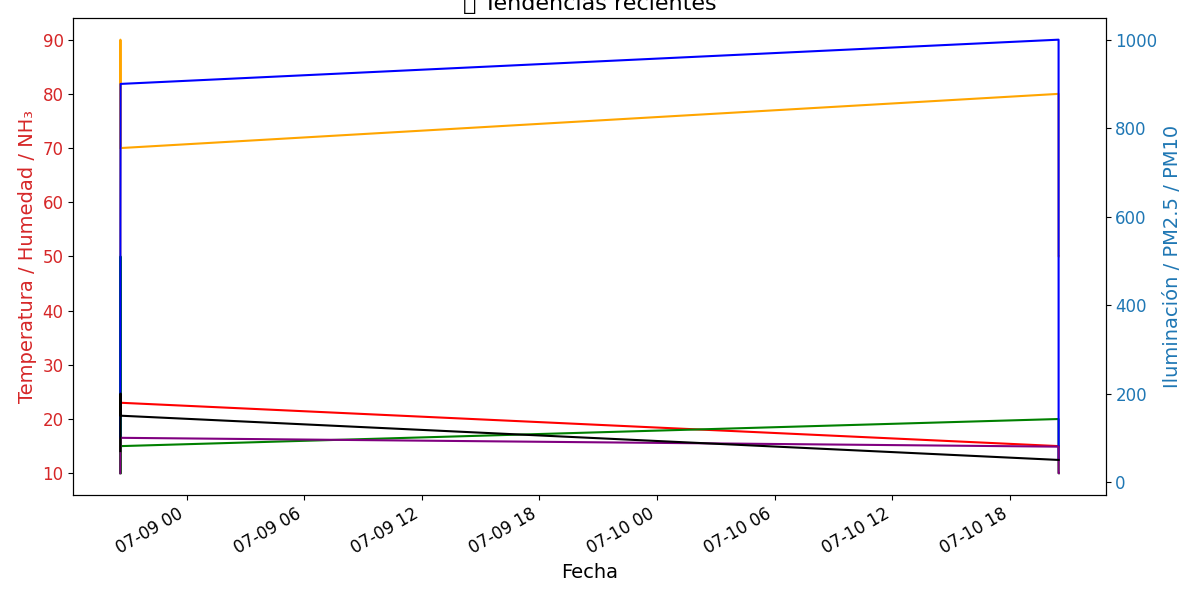
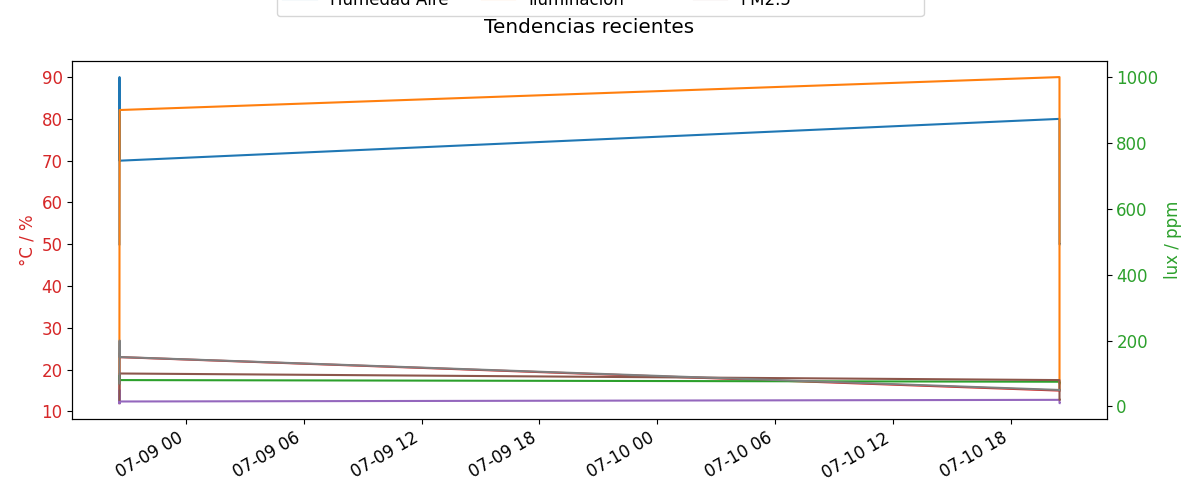
deploy: 9ad512b169f7b07108386a460ceb16426b445639

diff --git a/informe.html b/informe.html
@@ -14,7 +14,7 @@
 </head>
 <body>
 <h1>📊 Informe Automático IoT - Granjas Avícolas</h1>
-<p>📅 Fecha: 13 de julio de 2025</p>
+<p>📅 Fecha: 13 de julio de 2025 - 16:02 (GMT-4)</p>
 
 <h2>📌 Agrupación de comportamientos</h2>
 <img src="clusters.png"><br><br>
@@ -23,7 +23,8 @@
 <h2>🗺 Mapa de calor de variables por patrón</h2>
 <img src="heatmap.png"><br><br>
 
-<h2>📈 Tendencias principales</h2>
-<img src="tendencia.png">
+<h2>📈 Tendencias recientes</h2>
+<img src="tendencia.png"><br><br>
+
 </body>
 </html>
